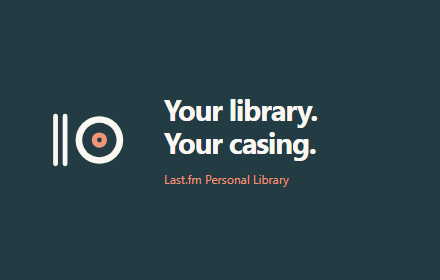
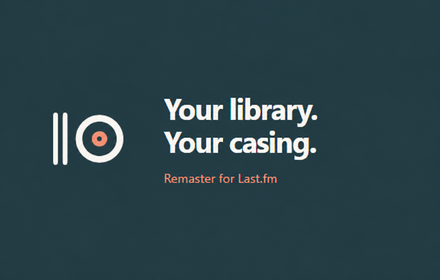
Release Remaster for Last.fm v0.9.25 with universal scrolling

diff --git a/privacy.html b/privacy.html
@@ -1,11 +1,11 @@
 <!doctype html>
-<html lang="en"><head><meta charset="utf-8"><meta name="viewport" content="width=device-width,initial-scale=1"><title>Privacy · Last.fm Personal Library</title><link rel="stylesheet" href="extension-ui.css"></head>
+<html lang="en"><head><meta charset="utf-8"><meta name="viewport" content="width=device-width,initial-scale=1"><title>Privacy · Remaster for Last.fm</title><link rel="stylesheet" href="extension-ui.css"></head>
 <body class="settings-page help-page">
   <a class="preferences-back" href="options.html">← Settings &amp; backup</a>
-  <header class="page-header"><div><p class="eyebrow">Last.fm Personal Library · <span data-version></span> beta</p><h1>Privacy</h1><p class="subtle">Updated 29 October 2026</p></div></header>
+  <header class="page-header"><div><p class="eyebrow">Remaster for Last.fm · <span data-version></span> beta</p><h1>Privacy</h1><p class="subtle">Updated 29 October 2026</p></div></header>
   <main>
     <section class="card"><h2>In brief</h2><p>Your display preferences and imported music metadata are processed on your device. The extension has no developer-operated server, advertising, analytics, tracking SDK, account system or automatic error reporting. It does not send your XML or preferences to the developer.</p><p>The <code>unlimitedStorage</code> permission lets a whole library's display preferences and undo record exceed Chrome's usual local extension-storage quota. It adds no access to other websites or accounts. Storage remains on this device. The <code>alarms</code> permission wakes resumable background caching jobs; it grants no website or account access.</p></section>
-    <section class="card"><h2>Information used</h2><ul><li><strong>Your Last.fm username and settings</strong> identify the profile where features may run.</li><li><strong>Artist, album, album-artist and song names</strong> from your selections and XML are used to build display preferences. XML is read locally; the original file and its filename are not retained or uploaded by the extension.</li><li><strong>Last.fm page content</strong>, including track names, album tags, play counts, timestamps, images, links and native edit-form fields, is read to display your library, open its normal editor and choose your personal covers.</li><li><strong>Local records</strong> include display preferences, settings, the latest XML undo record, a per-profile library name/artist cache with page progress, skipped-item reports and background job state, a bounded artwork cache, request pacing/pause state, and any album-less rules, discovery progress and correction-attempt records retained from earlier versions.</li></ul><p>The extension runs on <code>https://www.last.fm/</code>. Display names and library browsing are restricted to the profile you connect. Personal covers and broken-image recovery also run on public artist pages and their Tracks lists, using your connected history and exact public track/album associations. Catalogue-only results stay in page memory rather than the personal-winner cache. Other users' profiles are not personalised. Redirect protection keeps supported artist, song and album links on their original pages in the connected profile and public music pages, without uploading page contents to the developer. The extension does not request access to unrelated websites or read files you have not selected.</p></section>
+    <section class="card"><h2>Information used</h2><ul><li><strong>Your Last.fm username and settings</strong> identify the profile where features may run.</li><li><strong>Artist, album, album-artist and song names</strong> from your selections and XML are used to build display preferences. XML is read locally; the original file and its filename are not retained or uploaded by the extension.</li><li><strong>Last.fm page content</strong>, including track names, album tags, play counts, timestamps, images, links and native edit-form fields, is read to display your library, open its normal editor and choose your personal covers.</li><li><strong>Local records</strong> include display preferences, settings, the latest XML undo record, a per-profile library name/artist cache with page progress, skipped-item reports and background job state, a bounded artwork cache, request pacing/pause state, and any album-less rules, discovery progress and correction-attempt records retained from earlier versions.</li></ul><p>The extension runs on <code>https://www.last.fm/</code>. Display names are restricted to the profile you connect. When enabled, infinite scrolling also loads native paginated chart lists on other profiles and public Last.fm music, tag and chart pages. Personal covers and broken-image recovery also run on public artist pages and their Tracks lists, using your connected history and exact public track/album associations. Catalogue-only results stay in page memory rather than the personal-winner cache. Other users' profiles are not personalised. Redirect protection keeps supported artist, song and album links on their original pages in the connected profile and public music pages, without uploading page contents to the developer. The extension does not request access to unrelated websites or read files you have not selected.</p></section>
     <section class="card"><h2>Requests and third parties</h2><p>Background library caching starts after you connect a profile and uses a connected Last.fm tab, existing rate limits and persistent pauses. Closing the comparison screen does not stop it; Pause caching does. Library comparison, scrolling, artwork discovery, native edit dialogs request pages from Last.fm using your existing browser session. Last.fm receives the requested URLs, your IP address and normal session credentials. Cover images are loaded from Last.fm’s image hosts, including <code>lastfm-img.freetls.fastly.net</code>. These services receive normal image requests.</p><p>Real scrobble edits you submit use Last.fm’s native forms. The extension page transport is hard-coded to GET requests and rejects submissions. Local display-name changes and XML comparison never submit scrobble edits.</p><p>No passwords are requested by the extension. Session cookies are handled by the browser; there is no cookie-reading permission. Native security fields may be used in memory as part of Last.fm’s editor and are not included in the extension’s saved preferences or diagnostics.</p><p>Last.fm and its image services operate under their own privacy policies. Browser and extension-store services may separately process installation, update or crash information under their own settings and policies.</p></section>
     <section class="card"><h2>Storage and your controls</h2><p>Records are kept in <code>chrome.storage.local</code> in this browser installation until you change/delete them or remove the extension. The extension does not use Chrome Sync. Artwork records are bounded and may be replaced; display preferences are not evicted by the artwork cache.</p><p>You can search, edit and delete display preferences, revert the latest XML import, and export/import JSON in Settings. JSON exports are downloaded only when you request them and may contain your username, listening metadata, preferences and retained records. Keep exports private. The source XML remains wherever you keep it.</p><p>Disabling the extension retains its records. Removing it can delete its local storage. Export first if you want to keep a backup. Copies you downloaded or shared are not deleted by uninstalling.</p></section>
     <section class="card"><h2>Diagnostics and contact</h2><p>Diagnostics are copied to your clipboard only when you press Copy diagnostics. They include the extension version, configured username, feature state, counts and limited error/status information. They omit individual song names, XML contents, passwords and security tokens. Review the text before sharing it voluntarily.</p><p>Use the support channel identified on the extension’s beta download or store listing for questions or feedback. There is no automatic transmission to that channel.</p></section>

diff --git a/release/site/index.html b/release/site/index.html
@@ -1,9 +1,9 @@
 <!doctype html>
-<html lang="en"><head><meta charset="utf-8"><meta name="viewport" content="width=device-width,initial-scale=1"><meta name="description" content="Local display names, iTunes XML casing import and continuous scrolling for your Last.fm library. Free public beta."><title>Last.fm Personal Library · Beta</title><link rel="stylesheet" href="site.css"></head>
+<html lang="en"><head><meta charset="utf-8"><meta name="viewport" content="width=device-width,initial-scale=1"><meta name="description" content="Local display names, iTunes XML casing import and continuous scrolling for your Last.fm library. Free public beta."><title>Remaster for Last.fm · Beta</title><link rel="stylesheet" href="site.css"></head>
 <body>
-  <header><a class="wordmark" href="#"><img src="assets/icon128.png" width="46" height="46" alt="">Personal Library</a><span class="tag">For Last.fm · Independent extension</span></header>
+  <header><a class="wordmark" href="#"><img src="assets/icon128.png" width="46" height="46" alt="">Remaster for Last.fm</a><span class="tag">For Last.fm · Independent extension</span></header>
   <main>
-    <section class="hero"><p class="eyebrow">Chrome extension · Free beta 0.9.13</p><h1>Your music.<br>Your casing.</h1><p class="intro">Bring your preferred artist, album and song names to your own Last.fm library. Import your iTunes XML, choose what applies, and keep scrolling.</p><a class="button" href="downloads/lastfm-personal-library-0.9.13-beta.zip" download>Download the beta <span aria-hidden="true">↓</span></a><p class="fine">Manual installation with Developer mode. <a href="#install">Installation steps</a> · <a href="downloads/lastfm-personal-library-0.9.13-beta.zip.sha256">SHA-256</a></p></section>
+    <section class="hero"><p class="eyebrow">Chrome extension · Free beta 0.9.13</p><h1>Your music.<br>Your casing.</h1><p class="intro">Bring your preferred artist, album and song names to your own Last.fm library. Import your iTunes XML, choose what applies, and keep scrolling.</p><a class="button" href="downloads/remaster-for-lastfm-0.9.13-beta.zip" download>Download the beta <span aria-hidden="true">↓</span></a><p class="fine">Manual installation with Developer mode. <a href="#install">Installation steps</a> · <a href="downloads/remaster-for-lastfm-0.9.13-beta.zip.sha256">SHA-256</a></p></section>
     <section class="feature-grid" aria-label="Features"><article><span>01</span><h2>Choose your display names</h2><p>Keep the casing you want on your own profile. Your friends’ libraries stay as they are.</p></article><article><span>02</span><h2>Review your XML</h2><p>Scan locally, select artist, album and song preferences, then Apply. Revert the latest import when needed.</p></article><article><span>03</span><h2>Keep your library flowing</h2><p>Load more native library rows as you scroll, with day breaks preserved on Scrobbles.</p></article></section>
     <section class="showcase"><div><p class="eyebrow">A local preference, not a catalogue edit</p><h2>Organised by artist, album and song.</h2><p>Search, edit and delete the names you’ve chosen. Export a JSON backup whenever you want.</p></div><img src="assets/preferences.png" width="1280" height="800" alt="Display preferences page showing searchable artist, album and song groups with fictional example names." loading="lazy"></section>
     <section class="showcase"><div><p class="eyebrow">Choose what applies</p><h2>Your XML. Your selection.</h2><p>The file is processed in your browser. There is no 50 MB file limit, and your XML is not uploaded.</p></div><img src="assets/xml-review.png" width="1280" height="800" alt="iTunes XML review page with checkboxes for local display preferences, using example metadata." loading="lazy"></section>

diff --git a/content.js b/content.js
@@ -12,6 +12,7 @@
   const pending = new Set();
   const changed = new Map();
   const ownProfile = () => A.ownProfile(location.href, settings.username);
+  const canScroll = () => settings.infiniteScroll && A.scrollView(location.href);
 
   function nameNode(element, name) {
     const walker = document.createTreeWalker(element, NodeFilter.SHOW_TEXT);
@@ -232,7 +233,7 @@
 
   async function loadMore(state, resume = false) {
     if (scroller !== state || !state.active || state.mode === 'loading' || !state.next ||
-        !ownProfile() || document.hidden) return;
+        !canScroll() || document.hidden) return;
     const controller = new AbortController();
     state.controller = controller;
     renderScroll(state, 'loading', 'Loading the next library page…');
@@ -240,7 +241,7 @@
       if (resume && LastfmPages.status().rateLimited) await LastfmPages.resume();
       if (scroller !== state || !state.active || state.controller !== controller || controller.signal.aborted) return;
       const page = await LastfmPages.get(state.next, { signal: controller.signal, priority: 'navigation' });
-      if (scroller !== state || !state.active || state.controller !== controller || !ownProfile() || controller.signal.aborted) return;
+      if (scroller !== state || !state.active || state.controller !== controller || !canScroll() || controller.signal.aborted) return;
       const url = new URL(page.url);
       if (url.pathname !== new URL(currentUrl).pathname &&
           !globalThis.LastfmRedirects?.samePagePath(currentUrl, page.url) ||
@@ -293,7 +294,7 @@
   }
 
   function startScroll() {
-    if (!ownProfile() || !settings.infiniteScroll || !A.libraryView(location.href)) {
+    if (!canScroll()) {
       suspendScroll(); return;
     }
     if (scroller?.table.isConnected) {
@@ -453,5 +454,5 @@
       refresh();
     } });
   }
-  init().catch(error => console.error('Last.fm Personal Library:', error.message));
+  init().catch(error => console.error('Remaster for Last.fm:', error.message));
 })();

diff --git a/pages.js b/pages.js
@@ -72,10 +72,14 @@
       ? artworkPage &&
         new URL(value).origin === location.origin && new URL(value).pathname.startsWith('/music/') &&
         LastfmAdapter.musicItem(value)?.type === (album === 'track' ? 'tracks' : 'albums')
-      : LastfmAdapter.ownProfile(value, settings.username) &&
-        /\/library(?:\/?$|\/(?:scrobbles|artists|albums|tracks)\/?$|\/music\/)/.test(new URL(value).pathname);
+      : (settings.infiniteScroll && LastfmAdapter.scrollView(location.href) &&
+          new URL(value).origin === location.origin &&
+          (new URL(value).pathname === location.pathname ||
+            globalThis.LastfmRedirects?.samePagePath(location.href, value))) ||
+        (LastfmAdapter.ownProfile(value, settings.username) &&
+          /\/library(?:\/?$|\/(?:scrobbles|artists|albums|tracks)\/?$|\/music\/)/.test(new URL(value).pathname));
     if (target.origin !== location.origin || !allowed(target.href)) {
-      throw new Error('Page loading is available only on your configured profile.');
+      throw new Error('Page loading is available only in a supported Last.fm view.');
     }
     const state = await chrome.storage.local.get([PAUSE, LAST, WINDOW]);
     if (state[PAUSE] !== pause) track(state[PAUSE]);

diff --git a/preferences.html b/preferences.html
@@ -2,12 +2,12 @@
 <html lang="en">
 <head>
   <meta charset="utf-8"><meta name="viewport" content="width=device-width,initial-scale=1">
-  <title>Display name preferences · Last.fm Personal Library</title>
+  <title>Display name preferences · Remaster for Last.fm</title>
   <link rel="stylesheet" href="extension-ui.css">
 </head>
 <body class="settings-page preferences-page">
   <a class="preferences-back" href="options.html">← Settings &amp; backup</a>
-  <header class="page-header"><div><p class="eyebrow">Last.fm Personal Library</p><h1>Display name preferences</h1></div><span id="profile-status" class="badge">Loading profile…</span></header>
+  <header class="page-header"><div><p class="eyebrow">Remaster for Last.fm</p><h1>Display name preferences</h1></div><span id="profile-status" class="badge">Loading profile…</span></header>
   <main>
     <section class="card" aria-label="Find display preferences">
       <div class="section-header"><p class="subtle">Local spelling and casing. Your Last.fm scrobbles stay unchanged.</p><span id="count" class="subtle" role="status"></span></div>

diff --git a/adapter.js b/adapter.js
@@ -62,6 +62,12 @@
     if (music.length === 2 && music[1] === '+tracks') return 'tracks';
     return null;
   }
+  // Only native chart lists with verified same-page pagination are scrollable.
+  // Personal display rules and native editing keep their separate ownership checks.
+  function scrollView(value) {
+    const url = parse(value);
+    return libraryView(value) || (url && /^(?:\/music\/|\/tag\/|\/charts(?:\/|$)|\/user\/[^/]+\/?$)/.test(url.pathname) ? 'chart' : null);
+  }
   function nextPage(root, base = baseUrl()) {
     const current = parse(base, base);
     if (!current) return null;
@@ -136,6 +142,6 @@
         !/\/4128a6eb29f94943c9d206c08e625904\.[^/]+$/i.test(url.pathname) ? url.href : null;
     } catch { return null; }
   }
-  globalThis.LastfmAdapter = Object.freeze({ decode, musicItem, ownProfile, publicArtistPage, libraryView,
+  globalThis.LastfmAdapter = Object.freeze({ decode, musicItem, ownProfile, publicArtistPage, libraryView, scrollView,
     nextPage, editRow, artworkFields, editPairs, coverImage });
 })();

diff --git a/popup.js b/popup.js
@@ -11,7 +11,7 @@
     $('profile').textContent = username || 'Not connected';
     $('profile-link').href = username ? 'https://www.last.fm/user/' + encodeURIComponent(username) : 'options.html';
     $('infinite-scroll').value = String(next.settings.infiniteScroll !== false);
-    $('infinite-scroll').disabled = saving || !username;
+    $('infinite-scroll').disabled = saving;
     const avatar = $('profile-avatar');
     let source = '';
     try {
@@ -45,7 +45,7 @@
       const latest = await S.read();
       await refreshStatus();
       const diagnostics = {
-        extension:'Last.fm Personal Library',version:chrome.runtime.getManifest().version,
+        extension:'Remaster for Last.fm',version:chrome.runtime.getManifest().version,
         configuredProfile:latest.settings.username,
         preferences:Object.fromEntries(Object.entries(latest.rules).map(([type, group]) => [type,Object.keys(group).length])),
         scrollingEnabled:latest.settings.infiniteScroll !== false,

diff --git a/popup.html b/popup.html
@@ -1,8 +1,8 @@
 <!doctype html>
 <html lang="en">
-<head><meta charset="utf-8"><meta name="viewport" content="width=device-width,initial-scale=1"><title>Jay's Last.fm tool</title><link rel="stylesheet" href="extension-ui.css"></head>
+<head><meta charset="utf-8"><meta name="viewport" content="width=device-width,initial-scale=1"><title>Remaster for Last.fm</title><link rel="stylesheet" href="extension-ui.css"></head>
 <body class="popup-page">
-  <header><h1>Jay's Last.fm tool</h1></header>
+  <header><h1>Remaster for Last.fm</h1></header>
   <main>
     <div class="popup-connection"><span>Connected to</span><a id="profile-link" target="_blank" rel="noopener"><img id="profile-avatar" alt="" width="28" height="28" hidden><span id="profile">…</span></a></div>
     <div class="popup-scrolling"><label for="infinite-scroll">Infinite scroll</label><select id="infinite-scroll" disabled><option value="true">Enabled</option><option value="false">Disabled</option></select></div>

diff --git a/library-cache.js b/library-cache.js
@@ -60,7 +60,7 @@
     return {...scan,candidates};
   }
   function validate(payload,user) {
-    if(payload?.format!=='lastfm-personal-library-cache'||payload.version!==1||!payload.cache||R.normalize(payload.cache.username)!==R.normalize(user))throw Error('Choose a Personal Library cache for your connected Last.fm profile.');
+    if(payload?.format!=='lastfm-personal-library-cache'||payload.version!==1||!payload.cache||R.normalize(payload.cache.username)!==R.normalize(user))throw Error('Choose a Remaster for Last.fm cache for your connected Last.fm profile.');
     const input=payload.cache,out=create(user);let count=0;
     if(!Number.isSafeInteger(input.updatedAt)||input.updatedAt<0)throw Error('Invalid cache date.');
     out.updatedAt=input.updatedAt;out.startedAt=Number.isSafeInteger(input.startedAt)?input.startedAt:input.updatedAt;

diff --git a/help.html b/help.html
@@ -1,5 +1,5 @@
 <!doctype html>
-<html lang="en"><head><meta charset="utf-8"><meta name="viewport" content="width=device-width,initial-scale=1"><title>Help · Last.fm Personal Library</title><link rel="stylesheet" href="extension-ui.css"></head>
+<html lang="en"><head><meta charset="utf-8"><meta name="viewport" content="width=device-width,initial-scale=1"><title>Help · Remaster for Last.fm</title><link rel="stylesheet" href="extension-ui.css"></head>
 <body class="settings-page help-page">
   <a class="preferences-back" href="options.html">← Settings &amp; backup</a>
   <header class="page-header"><div><p class="eyebrow"><span data-version></span> · Public beta</p><h1>Your library, your display names</h1></div><img src="icons/icon128.png" width="72" height="72" alt=""></header>

diff --git a/itunes.html b/itunes.html
@@ -1,6 +1,6 @@
 <!doctype html>
 <html lang="en">
-<head><meta charset="utf-8"><meta name="viewport" content="width=device-width,initial-scale=1"><title>iTunes casing · Last.fm Personal Library</title><link rel="stylesheet" href="extension-ui.css"><link rel="stylesheet" href="itunes.css"></head>
+<head><meta charset="utf-8"><meta name="viewport" content="width=device-width,initial-scale=1"><title>iTunes casing · Remaster for Last.fm</title><link rel="stylesheet" href="extension-ui.css"><link rel="stylesheet" href="itunes.css"></head>
 <body class="settings-page itunes-page">
   <a class="back-link" href="options.html">← Settings</a>
   <header class="page-header"><h1>iTunes casing</h1><span id="profile-status" class="badge"></span></header>

diff --git a/options.js b/options.js
@@ -90,7 +90,7 @@
       const data = JSON.parse(await file.text());
       if (revision !== importRevision) return;
       if (data.version !== 1 || !data.rules || typeof data.settings?.username !== 'string' ||
-          !/^[^/\s?#]+$/.test(data.settings.username)) throw new Error('This is not a valid Personal Library backup.');
+          !/^[^/\s?#]+$/.test(data.settings.username)) throw new Error('This is not a valid Remaster for Last.fm backup.');
       const cleaned = R.clean(data.rules);
       for (const type of R.TYPES) {
         if (data.rules[type] && (Array.isArray(data.rules[type]) || typeof data.rules[type] !== 'object' ||
